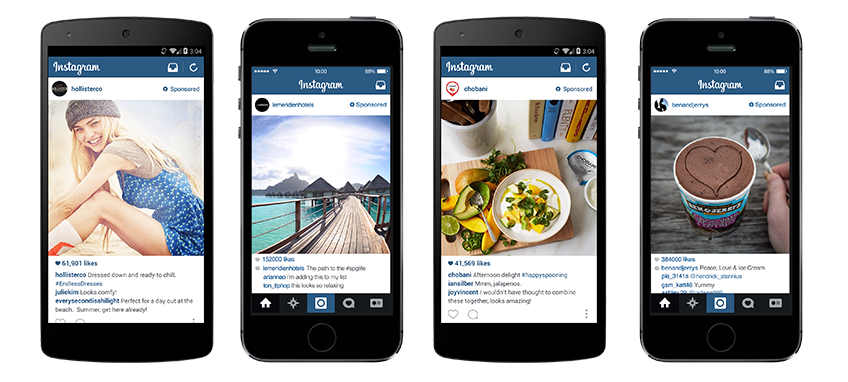
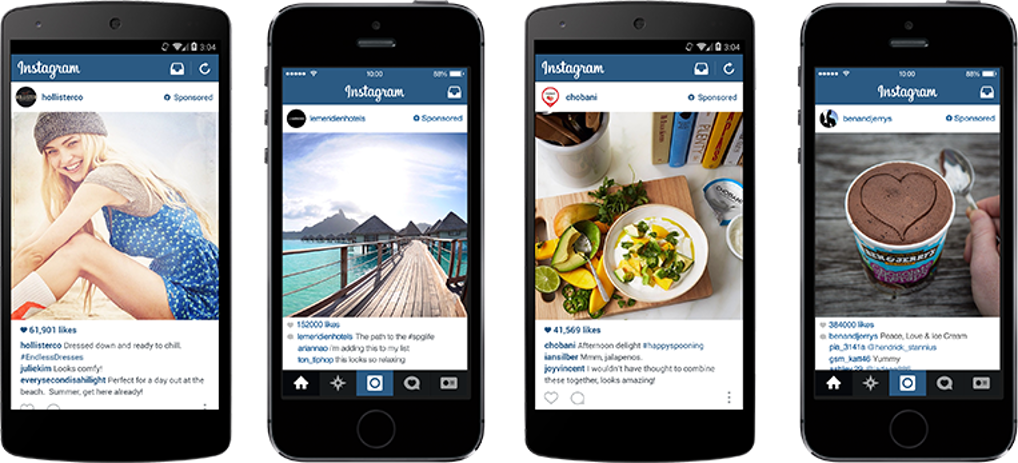
Fix carousel images with consistent height

diff --git a/public/css/style.css b/public/css/style.css
@@ -1,8 +1,10 @@
 .carousel-area {
-  padding-top: 40px; }
+  padding-top: 40px;
+  height: 400px; }
 
 .client-ad-image {
   width: auto;
+  max-width: 100px;
   height: 400px;
   max-height: 400px; }
 

diff --git a/scss/_portfolio.scss b/scss/_portfolio.scss
@@ -1,9 +1,11 @@
 .carousel-area	{
 	padding-top: 40px;
+	height: 400px;
 }
 
 .client-ad-image	{
 	width: auto;
+	max-width: 100px;
 	height:	400px;
 	max-height: 400px;
 }
